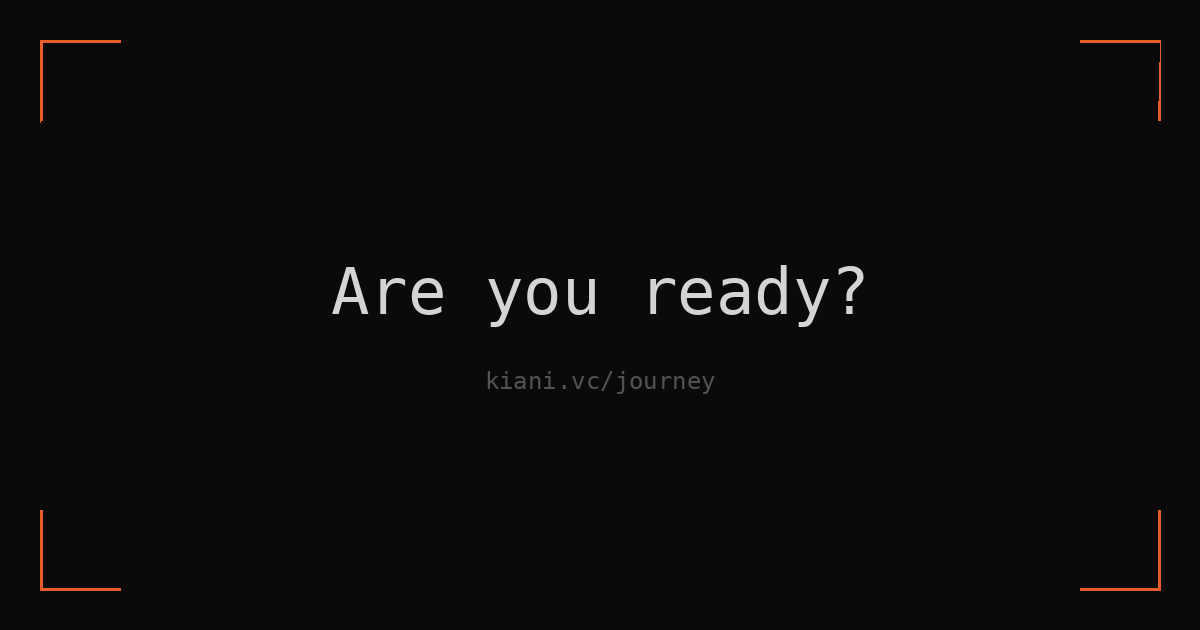
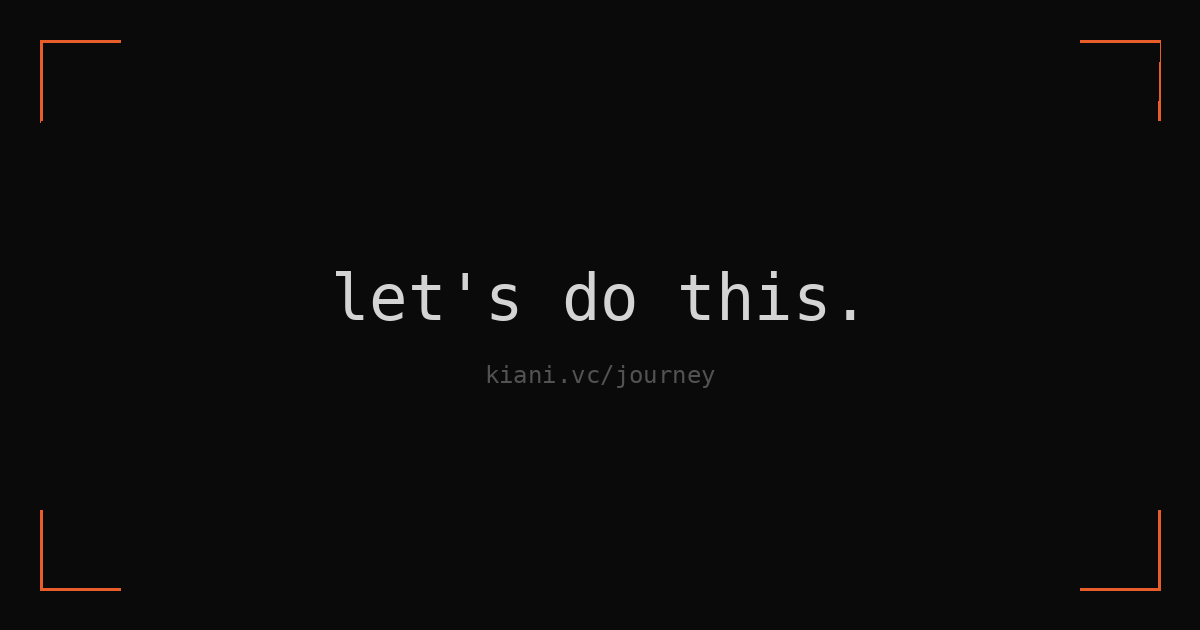
Change OG image text to "let's do this."
https://claude.ai/code/session_012EMqjUJJYKVnEQMxSzg7ir

Changed region(s): [[0.2775, 0.4222, 0.74, 0.5127], [0.4008, 0.573, 0.6167, 0.6333]]

diff --git a/journey/index.html b/journey/index.html
@@ -8,13 +8,13 @@
 <meta name="robots" content="noindex, nofollow">
 
 <!-- Open Graph / Link Preview -->
-<meta property="og:title" content="Are you ready?">
+<meta property="og:title" content="let's do this.">
 <meta property="og:description" content="Start your journey — Daniel Kiani">
 <meta property="og:image" content="https://kiani.vc/journey/og-image.png">
 <meta property="og:url" content="https://kiani.vc/journey">
 <meta property="og:type" content="website">
 <meta name="twitter:card" content="summary_large_image">
-<meta name="twitter:title" content="Are you ready?">
+<meta name="twitter:title" content="let's do this.">
 <meta name="twitter:description" content="Start your journey — Daniel Kiani">
 <meta name="twitter:image" content="https://kiani.vc/journey/og-image.png">
 
